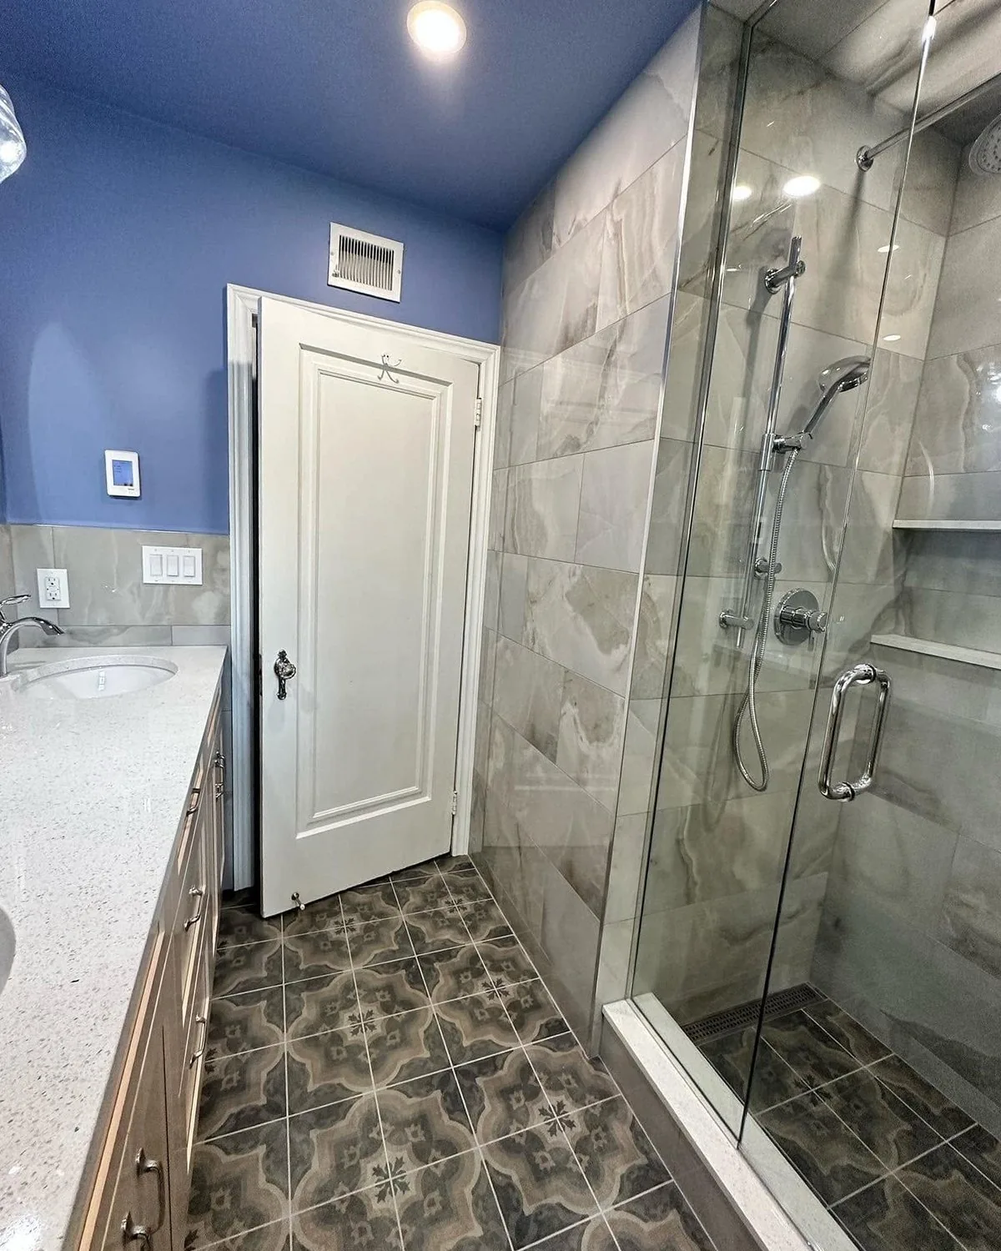
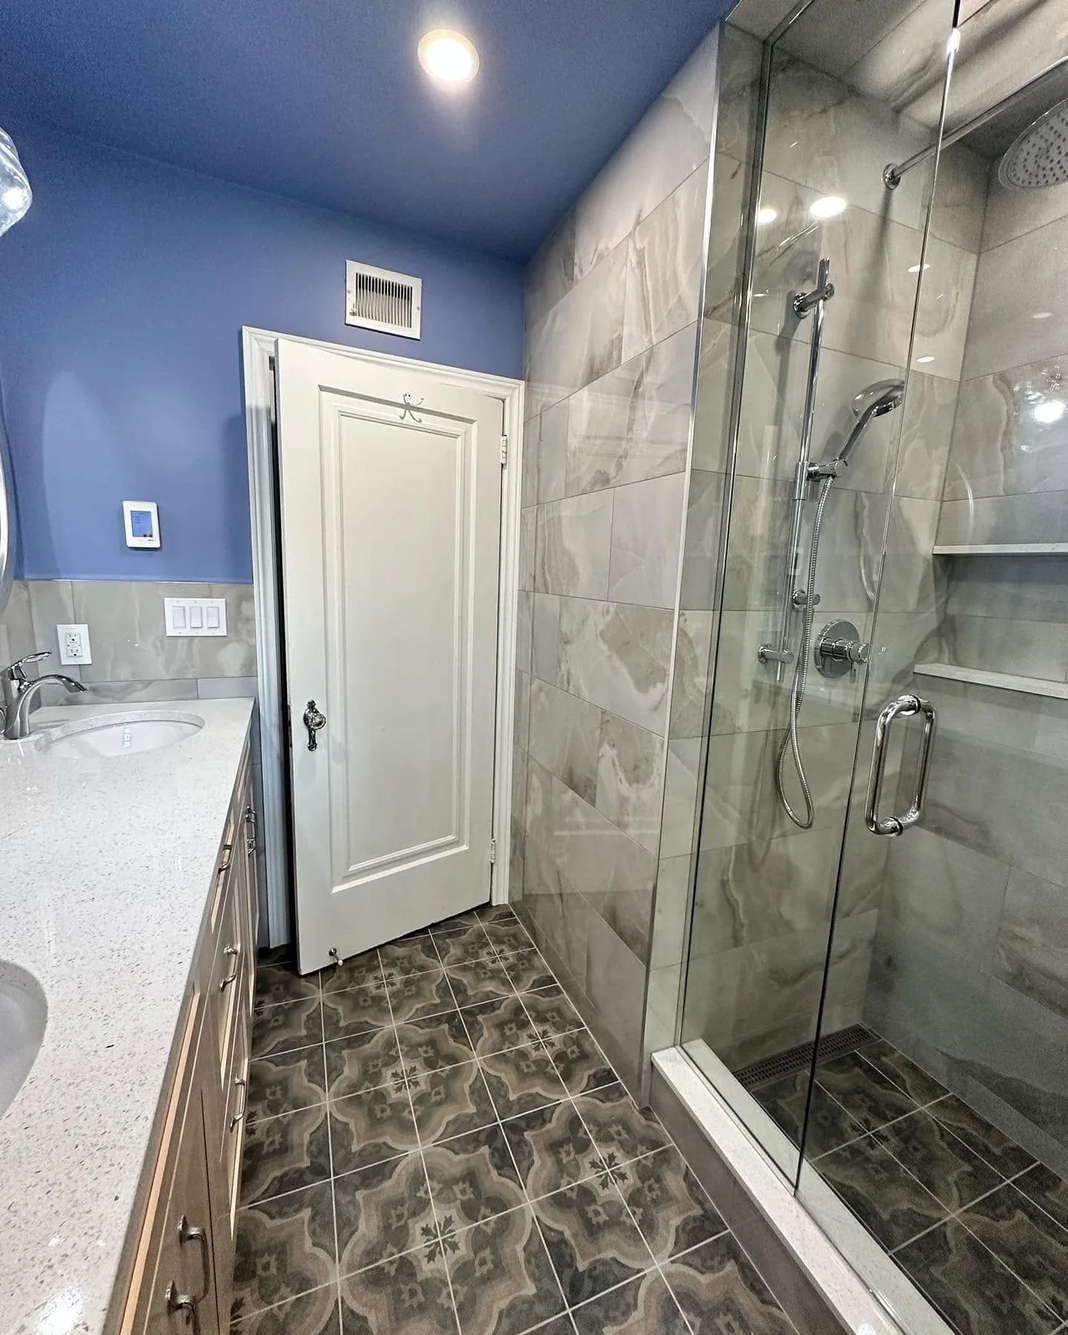
Fill out the patterned floor bathroom and add a third backsplash
All four photographs were already in the inbox from the Facebook pull and
had simply never been processed.

The bathroom is now the whole room rather than two corners of it: the
view in, the double vanity, the vanity along its length, and the shower.
Two of the three photographs already published turned out to have larger
copies sitting in the same album, so g-pbath-room and g-pbath-shower are
re-encoded from those at 1280 rather than 1200.

Its note now covers the wainscot line, which is the actual work in a room
like this and is what the new photographs show.

The backsplash project gains the patterned panel set into plain subway,
and its note is extended to cover it.

diff --git a/gallery.html b/gallery.html
@@ -128,7 +128,7 @@
         <li class="mosaic__item">
           <button type="button" class="mosaic__btn" data-project="p9">
             <img src="images/g-pbath-room.webp" alt="The finished bathroom with patterned floor tile, looking through to the shower" loading="lazy">
-            <span class="mosaic__label">Bathroom with patterned floor<em>2 photos</em></span>
+            <span class="mosaic__label">Bathroom with patterned floor<em>5 photos</em></span>
           </button>
         </li>
         <li class="mosaic__item">
@@ -146,7 +146,7 @@
         <li class="mosaic__item">
           <button type="button" class="mosaic__btn" data-project="p12">
             <img src="images/g-tile-arabesque.webp" alt="Blue and grey arabesque glass tile backsplash" loading="lazy">
-            <span class="mosaic__label">Backsplashes<em>2 photos</em></span>
+            <span class="mosaic__label">Backsplashes<em>3 photos</em></span>
           </button>
         </li>
         <li class="mosaic__item">
@@ -199,7 +199,7 @@
         </li>
       </ul>
 
-      <script type="application/json" id="project-data">{"p0": {"title": "Fireplace surround", "note": "Full-height porcelain in a marble look, run floor to ceiling and returned around the corner so no cut edge is ever on show. The mantel is solid timber on concealed blocks, set above a see-through firebox.", "photos": [{"src": "images/g-fire-wide.webp", "alt": "Black marble-look fireplace surround run floor to ceiling, with a timber mantel over a see-through firebox"}, {"src": "images/g-fire-room.webp", "alt": "Black marble-look fireplace surround running full height"}, {"src": "images/g-fire-mantel.webp", "alt": "Timber mantel on cantilevered blocks above the firebox"}]}, "p1": {"title": "Charcoal shower", "note": "Large-format walls with a hexagon feature and a quartz bench. Behind all of it is a bonded waterproofing membrane taken up the walls and over the bench before a single tile went on. Levelling clips hold every tile flush while the mortar cures.", "photos": [{"src": "images/g-shower-done.webp", "alt": "Charcoal shower with hexagon feature wall and quartz bench", "stage": "Finished"}, {"src": "images/g-shower-progress.webp", "alt": "The same shower mid-build, waterproofing membrane and levelling clips visible", "stage": "During: waterproofing and levelling clips"}]}, "p2": {"title": "Fireplace and floating shelves", "note": "Concrete-look porcelain laid in herringbone, which means every tile is a cut and the pattern has to stay true right across the wall. Solid oak mantel and floating shelves, mitred where they return into the corner.", "photos": [{"src": "images/g-fire2-room.webp", "alt": "Living room with herringbone tiled fireplace wall and oak shelves"}, {"src": "images/g-fire2-wall.webp", "alt": "The fireplace wall straight on showing the herringbone pattern"}, {"src": "images/g-fire2-shelves.webp", "alt": "Solid oak floating shelves mitred into the corner"}]}, "p3": {"title": "Marble-look bathroom", "note": "Large-format porcelain with a pebble mosaic strip run floor to ceiling as a feature. The niche is framed in quartz so there is no exposed tile edge anywhere you would put your hand.", "photos": [{"src": "images/g-mbath-shower.webp", "alt": "Shower in marble-look large-format tile"}, {"src": "images/g-mbath-niche.webp", "alt": "Pebble mosaic feature strip beside a quartz-framed niche"}, {"src": "images/g-mbath-vanity.webp", "alt": "Vessel sink on a shaped quartz counter"}, {"src": "images/g-mbath-wide.webp", "alt": "The finished room with round mirror and sconces"}, {"src": "images/g-mbath-tub.webp", "alt": "The same bathroom wider, showing the tub set into the tiled surround"}]}, "p4": {"title": "Navy kitchen", "note": "Shaker cabinetry with a quartz island, glazed subway backsplash and brass pendants. The island end is panelled with a cross detail rather than left flat.", "photos": [{"src": "images/g-kitchen-wide.webp", "alt": "Finished navy kitchen seen from the dining area"}, {"src": "images/g-kitchen-island.webp", "alt": "The island from the side showing the cross-panel end"}, {"src": "images/g-kitchen-range.webp", "alt": "Range wall with stainless hood and tiled backsplash"}, {"src": "images/g-kitchen-galley.webp", "alt": "View along the cabinetry to the farmhouse sink"}]}, "p5": {"title": "Basement, start to finish", "note": "Exposed joists and a concrete floor turned into a laundry and hallway. Framing, insulation and drywall through to herringbone tile, oak cabinetry and a quartz top.", "photos": [{"src": "images/g-base-laundry.webp", "alt": "Finished basement laundry with oak cabinetry and herringbone tile", "stage": "After"}, {"src": "images/g-floor-hall.webp", "alt": "Finished hallway with herringbone tile running through", "stage": "After"}, {"src": "images/g-base-before.webp", "alt": "The same basement before, exposed joists and concrete floor", "stage": "Before"}, {"src": "images/g-base-during.webp", "alt": "Framed up mid-build", "stage": "During: framing"}], "place": "Simcoe"}, "p6": {"title": "White shaker kitchen", "note": "Quartz peninsula, picket tile backsplash and a full run of shaker cabinetry opened to the living room. The floor was out of level, so the boxes were cut and scribed to sit true rather than shimmed.", "photos": [{"src": "images/g-wkit-open.webp", "alt": "White shaker kitchen open to the living room"}, {"src": "images/g-wkit-peninsula.webp", "alt": "Quartz peninsula with undermount sink and pendants"}, {"src": "images/g-wkit-range.webp", "alt": "Range wall with picket tile backsplash"}, {"src": "images/g-wkit-run.webp", "alt": "Full cabinetry run with tall pantry"}]}, "p7": {"title": "Tiled tub surround", "note": "The plastic surround that came with the bathroom was torn out and replaced with large-format porcelain, including a recessed niche trimmed in the same tile so the edges are mitred rather than capped. The before photograph is the old surround, not our work.", "photos": [{"src": "images/g-tub-after.webp", "alt": "Tiled tub surround in marble-look large format with a recessed niche", "stage": "After: tiled"}, {"src": "images/g-tub-before.webp", "alt": "The same tub before, with a moulded plastic surround", "stage": "Before: existing plastic surround"}]}, "p8": {"title": "Built-ins", "note": "Cabinetry built for the room it sits in rather than bought to fit it. Media wall with drawer banks and upper cabinets, and a fitted closet with shelving and rails set out to the owner's things.", "photos": [{"src": "images/g-builtin-media.webp", "alt": "Built-in media wall in sage green"}, {"src": "images/g-closet.webp", "alt": "Fitted closet with built-in shelving and rails"}, {"src": "images/g-builtin-panel.webp", "alt": "Built-in cabinet run below a cross-braced panelled wall"}, {"src": "images/g-closet2.webp", "alt": "Fitted closet with adjustable shelving and a double hanging rail"}]}, "p9": {"title": "Bathroom with patterned floor", "note": "Patterned floor tile laid so the repeat stays centred in the room, with a marble-look shower behind frameless glass.", "photos": [{"src": "images/g-pbath-room.webp", "alt": "The finished bathroom with patterned floor tile, looking through to the shower"}, {"src": "images/g-pbath-shower.webp", "alt": "Marble-look shower with glass surround"}]}, "p10": {"title": "White and black bathroom", "note": "Handmade-look subway run as a wainscot with a capped edge, black fittings throughout, and slate-look floor tile.", "photos": [{"src": "images/g-bath2-shower.webp", "alt": "Tub and shower with black framed sliding glass"}, {"src": "images/g-bath2-vanity.webp", "alt": "Vanity with arched black-framed mirror"}, {"src": "images/g-bath2-wide.webp", "alt": "The finished room showing the tiled wainscot"}, {"src": "images/g-bath2-tub.webp", "alt": "The tub and black framed glass seen from the vanity end"}]}, "p11": {"title": "Basement laundry", "note": "Backsplash tile set off a laser line with levelling clips, a coffered ceiling, plank flooring and fitted panelled doors.", "photos": [{"src": "images/g-laundry-wide.webp", "alt": "Finished basement laundry with tiled backsplash and coffered ceiling"}, {"src": "images/g-laundry-machines.webp", "alt": "Washer and dryer under the coffered ceiling, with the tiled backsplash and sink behind"}, {"src": "images/g-laundry-doors.webp", "alt": "Fitted panelled doors run along the room with the laundry beyond"}, {"src": "images/g-laundry-sink.webp", "alt": "Laundry sink and taps against the tiled wall"}, {"src": "images/g-laundry-tiling.webp", "alt": "Joel setting the backsplash off a laser line", "stage": "During: setting the backsplash"}]}, "p12": {"title": "Backsplashes", "note": "Arabesque glass and chevron mosaic. Both are laid out dry first so the cuts land where they are least seen, at the edges rather than through the middle of the wall.", "photos": [{"src": "images/g-tile-arabesque.webp", "alt": "Blue and grey arabesque glass tile backsplash"}, {"src": "images/g-tile-chevron.webp", "alt": "White chevron mosaic tile backsplash"}]}, "p13": {"title": "Sage green kitchen", "note": "Flat panel cabinetry in a muted green with a fireclay apron sink and a built on site hood. The subway tile is stacked to a laser line rather than followed off the counter, so the joints stay true the full width of the wall.", "photos": [{"src": "images/g-sage-wide.webp", "alt": "Sage green kitchen looking down the run to the range and hood"}, {"src": "images/g-sage-sink.webp", "alt": "Fireclay apron sink under the window with subway tile behind"}, {"src": "images/g-sage-fridge.webp", "alt": "Tall cabinetry beside the fridge with a built in microwave"}]}, "p14": {"title": "Marble and black bathroom", "note": "Tub and shower in one room, in large format porcelain with a marble look. The tub apron is tiled and mitred at the corner rather than capped with trim, and the niche is lined in the same dark hexagon mosaic as the floor.", "photos": [{"src": "images/g-cbath-shower.webp", "alt": "Shower in marble look porcelain behind black framed glass"}, {"src": "images/g-cbath-tub.webp", "alt": "Tub set into a tiled surround with black fittings"}]}, "p15": {"title": "Traditional white kitchen", "note": "Painted cabinetry with glazed upper doors, a tiled backsplash and large format stone look floor tile carried through into the dining area.", "photos": [{"src": "images/g-tkit-wide.webp", "alt": "White kitchen with glazed upper cabinets and a tiled floor"}, {"src": "images/g-tkit-glass.webp", "alt": "Cabinetry beside the patio door with glass fronted uppers"}]}, "p16": {"title": "Herringbone range wall", "note": "Stone look porcelain run in herringbone the full height behind the range. Every tile in a herringbone is a cut, and the layout is set off the centre line of the hood so the pattern stays symmetrical on both sides.", "photos": [{"src": "images/g-hkit-hood.webp", "alt": "Herringbone tiled range wall with a stainless chimney hood"}]}, "p17": {"title": "Geometric backsplash", "note": "A geometric mosaic against dark stained cabinetry and a quartz counter. Sheet mosaic shows every misalignment, so the sheets are dry laid across the whole run and the grid trued up before any of it is fixed.", "photos": [{"src": "images/g-gkit-backsplash.webp", "alt": "White geometric mosaic backsplash above a quartz counter"}]}, "p18": {"title": "New counters, existing cabinets", "note": "The oak was sound and worth keeping, so the job was quartz counters, a new sink and tap and a tiled backsplash, rather than tearing out a kitchen that had years left in it.", "photos": [{"src": "images/g-counters-oak.webp", "alt": "Quartz counters and a new backsplash fitted to existing oak cabinets"}]}, "p19": {"title": "Deck and privacy screens", "note": "A raised deck with cedar privacy screens. The screens are framed and infilled rather than butted together, so the boards can move with the weather without opening gaps along the joints.", "photos": [{"src": "images/g-deck-screen.webp", "alt": "Raised deck with cedar privacy screens and steps down to the garden"}, {"src": "images/g-deck-wide.webp", "alt": "Raised cedar deck with privacy screening along two sides"}, {"src": "images/g-deck-cedar.webp", "alt": "Cedar screen wall seen along the deck"}]}, "p20": {"title": "Marble shower with mosaic band", "note": "Large format porcelain in a soft grey marble, with a mosaic band run level right around the enclosure and a bench built into the corner. The floor is a small round mosaic, which is what lets a shower floor fall to the drain from every direction without any tile having to bend.", "photos": [{"src": "images/g-pbath-bench.webp", "alt": "Grey marble shower with a mosaic accent band, corner bench and frameless glass"}]}}</script>
+      <script type="application/json" id="project-data">{"p0": {"title": "Fireplace surround", "note": "Full-height porcelain in a marble look, run floor to ceiling and returned around the corner so no cut edge is ever on show. The mantel is solid timber on concealed blocks, set above a see-through firebox.", "photos": [{"src": "images/g-fire-wide.webp", "alt": "Black marble-look fireplace surround run floor to ceiling, with a timber mantel over a see-through firebox"}, {"src": "images/g-fire-room.webp", "alt": "Black marble-look fireplace surround running full height"}, {"src": "images/g-fire-mantel.webp", "alt": "Timber mantel on cantilevered blocks above the firebox"}]}, "p1": {"title": "Charcoal shower", "note": "Large-format walls with a hexagon feature and a quartz bench. Behind all of it is a bonded waterproofing membrane taken up the walls and over the bench before a single tile went on. Levelling clips hold every tile flush while the mortar cures.", "photos": [{"src": "images/g-shower-done.webp", "alt": "Charcoal shower with hexagon feature wall and quartz bench", "stage": "Finished"}, {"src": "images/g-shower-progress.webp", "alt": "The same shower mid-build, waterproofing membrane and levelling clips visible", "stage": "During: waterproofing and levelling clips"}]}, "p2": {"title": "Fireplace and floating shelves", "note": "Concrete-look porcelain laid in herringbone, which means every tile is a cut and the pattern has to stay true right across the wall. Solid oak mantel and floating shelves, mitred where they return into the corner.", "photos": [{"src": "images/g-fire2-room.webp", "alt": "Living room with herringbone tiled fireplace wall and oak shelves"}, {"src": "images/g-fire2-wall.webp", "alt": "The fireplace wall straight on showing the herringbone pattern"}, {"src": "images/g-fire2-shelves.webp", "alt": "Solid oak floating shelves mitred into the corner"}]}, "p3": {"title": "Marble-look bathroom", "note": "Large-format porcelain with a pebble mosaic strip run floor to ceiling as a feature. The niche is framed in quartz so there is no exposed tile edge anywhere you would put your hand.", "photos": [{"src": "images/g-mbath-shower.webp", "alt": "Shower in marble-look large-format tile"}, {"src": "images/g-mbath-niche.webp", "alt": "Pebble mosaic feature strip beside a quartz-framed niche"}, {"src": "images/g-mbath-vanity.webp", "alt": "Vessel sink on a shaped quartz counter"}, {"src": "images/g-mbath-wide.webp", "alt": "The finished room with round mirror and sconces"}, {"src": "images/g-mbath-tub.webp", "alt": "The same bathroom wider, showing the tub set into the tiled surround"}]}, "p4": {"title": "Navy kitchen", "note": "Shaker cabinetry with a quartz island, glazed subway backsplash and brass pendants. The island end is panelled with a cross detail rather than left flat.", "photos": [{"src": "images/g-kitchen-wide.webp", "alt": "Finished navy kitchen seen from the dining area"}, {"src": "images/g-kitchen-island.webp", "alt": "The island from the side showing the cross-panel end"}, {"src": "images/g-kitchen-range.webp", "alt": "Range wall with stainless hood and tiled backsplash"}, {"src": "images/g-kitchen-galley.webp", "alt": "View along the cabinetry to the farmhouse sink"}]}, "p5": {"title": "Basement, start to finish", "note": "Exposed joists and a concrete floor turned into a laundry and hallway. Framing, insulation and drywall through to herringbone tile, oak cabinetry and a quartz top.", "photos": [{"src": "images/g-base-laundry.webp", "alt": "Finished basement laundry with oak cabinetry and herringbone tile", "stage": "After"}, {"src": "images/g-floor-hall.webp", "alt": "Finished hallway with herringbone tile running through", "stage": "After"}, {"src": "images/g-base-before.webp", "alt": "The same basement before, exposed joists and concrete floor", "stage": "Before"}, {"src": "images/g-base-during.webp", "alt": "Framed up mid-build", "stage": "During: framing"}], "place": "Simcoe"}, "p6": {"title": "White shaker kitchen", "note": "Quartz peninsula, picket tile backsplash and a full run of shaker cabinetry opened to the living room. The floor was out of level, so the boxes were cut and scribed to sit true rather than shimmed.", "photos": [{"src": "images/g-wkit-open.webp", "alt": "White shaker kitchen open to the living room"}, {"src": "images/g-wkit-peninsula.webp", "alt": "Quartz peninsula with undermount sink and pendants"}, {"src": "images/g-wkit-range.webp", "alt": "Range wall with picket tile backsplash"}, {"src": "images/g-wkit-run.webp", "alt": "Full cabinetry run with tall pantry"}]}, "p7": {"title": "Tiled tub surround", "note": "The plastic surround that came with the bathroom was torn out and replaced with large-format porcelain, including a recessed niche trimmed in the same tile so the edges are mitred rather than capped. The before photograph is the old surround, not our work.", "photos": [{"src": "images/g-tub-after.webp", "alt": "Tiled tub surround in marble-look large format with a recessed niche", "stage": "After: tiled"}, {"src": "images/g-tub-before.webp", "alt": "The same tub before, with a moulded plastic surround", "stage": "Before: existing plastic surround"}]}, "p8": {"title": "Built-ins", "note": "Cabinetry built for the room it sits in rather than bought to fit it. Media wall with drawer banks and upper cabinets, and a fitted closet with shelving and rails set out to the owner's things.", "photos": [{"src": "images/g-builtin-media.webp", "alt": "Built-in media wall in sage green"}, {"src": "images/g-closet.webp", "alt": "Fitted closet with built-in shelving and rails"}, {"src": "images/g-builtin-panel.webp", "alt": "Built-in cabinet run below a cross-braced panelled wall"}, {"src": "images/g-closet2.webp", "alt": "Fitted closet with adjustable shelving and a double hanging rail"}]}, "p9": {"title": "Bathroom with patterned floor", "note": "Patterned floor tile laid so the repeat stays centred in the room, with a marble-look wainscot carried at one height right around the walls and a shower behind frameless glass. Holding that wainscot line level past a door, a window and a vanity is most of the work in a room like this.", "photos": [{"src": "images/g-pbath-room.webp", "alt": "The finished bathroom with patterned floor tile, looking through to the shower"}, {"src": "images/g-pbath-wide.webp", "alt": "The room from the doorway, patterned floor running through to the shower"}, {"src": "images/g-pbath-vanity.webp", "alt": "Double vanity with two oval mirrors against the tiled wainscot"}, {"src": "images/g-pbath-sinks.webp", "alt": "The vanity along its length, showing the quartz top and undermount basins"}, {"src": "images/g-pbath-shower.webp", "alt": "Marble-look shower with glass surround"}]}, "p10": {"title": "White and black bathroom", "note": "Handmade-look subway run as a wainscot with a capped edge, black fittings throughout, and slate-look floor tile.", "photos": [{"src": "images/g-bath2-shower.webp", "alt": "Tub and shower with black framed sliding glass"}, {"src": "images/g-bath2-vanity.webp", "alt": "Vanity with arched black-framed mirror"}, {"src": "images/g-bath2-wide.webp", "alt": "The finished room showing the tiled wainscot"}, {"src": "images/g-bath2-tub.webp", "alt": "The tub and black framed glass seen from the vanity end"}]}, "p11": {"title": "Basement laundry", "note": "Backsplash tile set off a laser line with levelling clips, a coffered ceiling, plank flooring and fitted panelled doors.", "photos": [{"src": "images/g-laundry-wide.webp", "alt": "Finished basement laundry with tiled backsplash and coffered ceiling"}, {"src": "images/g-laundry-machines.webp", "alt": "Washer and dryer under the coffered ceiling, with the tiled backsplash and sink behind"}, {"src": "images/g-laundry-doors.webp", "alt": "Fitted panelled doors run along the room with the laundry beyond"}, {"src": "images/g-laundry-sink.webp", "alt": "Laundry sink and taps against the tiled wall"}, {"src": "images/g-laundry-tiling.webp", "alt": "Joel setting the backsplash off a laser line", "stage": "During: setting the backsplash"}]}, "p12": {"title": "Backsplashes", "note": "Arabesque glass, chevron mosaic, and a patterned panel set into plain subway. All are laid out dry first so the cuts land where they are least seen, at the edges rather than through the middle of the wall. The patterned panel is framed by the field tile on every side, so it reads as an inset rather than somewhere the tiler ran out.", "photos": [{"src": "images/g-tile-arabesque.webp", "alt": "Blue and grey arabesque glass tile backsplash"}, {"src": "images/g-tile-chevron.webp", "alt": "White chevron mosaic tile backsplash"}, {"src": "images/g-tile-patterned.webp", "alt": "Patterned tile panel set into a plain subway backsplash behind the sink"}]}, "p13": {"title": "Sage green kitchen", "note": "Flat panel cabinetry in a muted green with a fireclay apron sink and a built on site hood. The subway tile is stacked to a laser line rather than followed off the counter, so the joints stay true the full width of the wall.", "photos": [{"src": "images/g-sage-wide.webp", "alt": "Sage green kitchen looking down the run to the range and hood"}, {"src": "images/g-sage-sink.webp", "alt": "Fireclay apron sink under the window with subway tile behind"}, {"src": "images/g-sage-fridge.webp", "alt": "Tall cabinetry beside the fridge with a built in microwave"}]}, "p14": {"title": "Marble and black bathroom", "note": "Tub and shower in one room, in large format porcelain with a marble look. The tub apron is tiled and mitred at the corner rather than capped with trim, and the niche is lined in the same dark hexagon mosaic as the floor.", "photos": [{"src": "images/g-cbath-shower.webp", "alt": "Shower in marble look porcelain behind black framed glass"}, {"src": "images/g-cbath-tub.webp", "alt": "Tub set into a tiled surround with black fittings"}]}, "p15": {"title": "Traditional white kitchen", "note": "Painted cabinetry with glazed upper doors, a tiled backsplash and large format stone look floor tile carried through into the dining area.", "photos": [{"src": "images/g-tkit-wide.webp", "alt": "White kitchen with glazed upper cabinets and a tiled floor"}, {"src": "images/g-tkit-glass.webp", "alt": "Cabinetry beside the patio door with glass fronted uppers"}]}, "p16": {"title": "Herringbone range wall", "note": "Stone look porcelain run in herringbone the full height behind the range. Every tile in a herringbone is a cut, and the layout is set off the centre line of the hood so the pattern stays symmetrical on both sides.", "photos": [{"src": "images/g-hkit-hood.webp", "alt": "Herringbone tiled range wall with a stainless chimney hood"}]}, "p17": {"title": "Geometric backsplash", "note": "A geometric mosaic against dark stained cabinetry and a quartz counter. Sheet mosaic shows every misalignment, so the sheets are dry laid across the whole run and the grid trued up before any of it is fixed.", "photos": [{"src": "images/g-gkit-backsplash.webp", "alt": "White geometric mosaic backsplash above a quartz counter"}]}, "p18": {"title": "New counters, existing cabinets", "note": "The oak was sound and worth keeping, so the job was quartz counters, a new sink and tap and a tiled backsplash, rather than tearing out a kitchen that had years left in it.", "photos": [{"src": "images/g-counters-oak.webp", "alt": "Quartz counters and a new backsplash fitted to existing oak cabinets"}]}, "p19": {"title": "Deck and privacy screens", "note": "A raised deck with cedar privacy screens. The screens are framed and infilled rather than butted together, so the boards can move with the weather without opening gaps along the joints.", "photos": [{"src": "images/g-deck-screen.webp", "alt": "Raised deck with cedar privacy screens and steps down to the garden"}, {"src": "images/g-deck-wide.webp", "alt": "Raised cedar deck with privacy screening along two sides"}, {"src": "images/g-deck-cedar.webp", "alt": "Cedar screen wall seen along the deck"}]}, "p20": {"title": "Marble shower with mosaic band", "note": "Large format porcelain in a soft grey marble, with a mosaic band run level right around the enclosure and a bench built into the corner. The floor is a small round mosaic, which is what lets a shower floor fall to the drain from every direction without any tile having to bend.", "photos": [{"src": "images/g-pbath-bench.webp", "alt": "Grey marble shower with a mosaic accent band, corner bench and frameless glass"}]}}</script>
     </div>
   </section>
 
